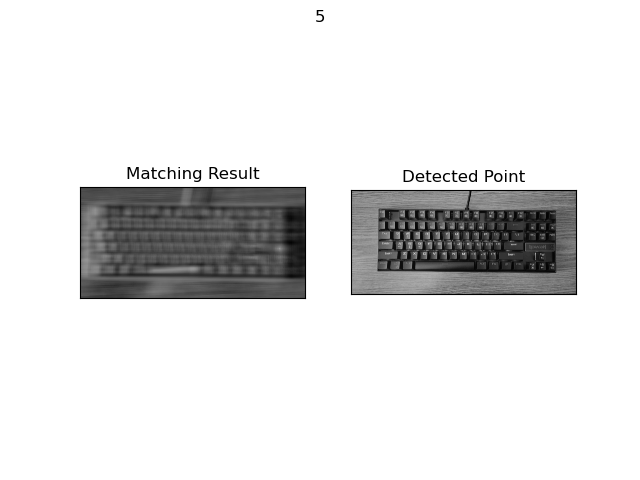
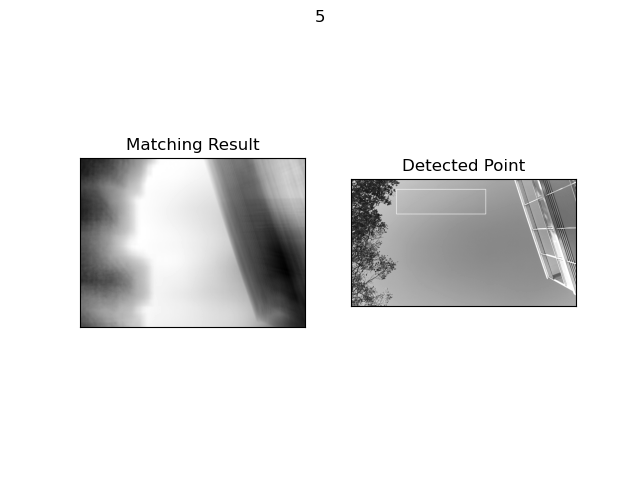
added camera functionality

Changed region(s): [[0.125, 0.2812, 0.5, 0.6875], [0.5312, 0.3125, 0.9062, 0.6562]]

diff --git a/src/keyboard_typing/keyboard_typing/autonomous_typing.py b/src/keyboard_typing/keyboard_typing/autonomous_typing.py
@@ -20,76 +20,75 @@ class AutonomousTyping(Node):
         super().__init__("autonomous_typing")
 
         #subscribes to IMAGE_TOPIC
-        self.create_subscription(Image, IMAGE_TOPIC, self.image_callback, QOS)
+        #self.create_subscription(Image, IMAGE_TOPIC, self.image_callback, QOS)
+        self.create_subscription(Image, "/camera_node/depth/image_raw", self.depth_callback, 10)
+        self.create_subscription(Image, "/camera_node/rgb/image_raw", self.rgb_callback, 10)
         #publishes PoseStamped message??
-        self.publisher = self.create_publisher(PoseStamped, "autonomous_typing", QOS)
+        self.publisher = self.create_publisher(PoseStamped, "autonomous_typing/pose", 10)
+
+        self.bridge = CvBridge()
 
         #creates an instance of aruco alignment
-        self.aruco_detector = ArucoAlignment()
-
+        self.aruco_detector = ArucoAlignment(bridge=self.bridge)
 
         #allows for you to have access to template image
         package_share_dir = get_package_share_directory("keyboard_typing")
-        FULL_KEYBOARD_IMAGE_PATH = os.path.join(package_share_dir, "resource", "full_keyboard_template_image.jpg")
-        TEMPLATE_IMAGE_PATH = os.path.join(package_share_dir, "resource", "template_image.jpg")
+        self.FULL_KEYBOARD_IMAGE_PATH = os.path.join(package_share_dir, "resource", "full_keyboard_template_image.jpg")
+        self.TEMPLATE_IMAGE_PATH = os.path.join(package_share_dir, "resource", "template_image.jpg")
 
         #load template image
-        self.bridge = CvBridge()
-
-
-
-
         #use imread so that is loads in grayscale already. --> might need to change if corner detection?
-        self.sift_template = cv2.imread(FULL_KEYBOARD_IMAGE_PATH, cv2.IMREAD_GRAYSCALE)
-
+        self.sift_template = cv2.imread(self.FULL_KEYBOARD_IMAGE_PATH, cv2.IMREAD_GRAYSCALE)
 
         if self.sift_template is None:
-            self.get_logger().error(f"Failed to load template image: {FULL_KEYBOARD_IMAGE_PATH}")
+            self.get_logger().error(f"Failed to load template image: {self.FULL_KEYBOARD_IMAGE_PATH}")
             exit(1)
-
-        sift_output = self.sift_detector()
-        
-        #for some reason this doesn't work
-        #template_matching_output = TemplateMatching(TEMPLATE_IMAGE_PATH, FULL_KEYBOARD_IMAGE_PATH).template_match()
-
-        #but this does
-        try:
-            template_matching_output = TemplateMatching(TEMPLATE_IMAGE_PATH, FULL_KEYBOARD_IMAGE_PATH)
-            template_matching_output.template_match()
-
-            corner_detection_output = CornerDetection(FULL_KEYBOARD_IMAGE_PATH)
-            corner_detection_output.corner_detect()
-
-        except Exception as e:
-            self.get_logger().error(f"TemplateMatching error: {e}")
 
         self.get_logger().info("AutonomousTyping running")
 
-    def image_callback(self, msg):
-        #convert ROS2 Image to OpenCV image --> convert to grayscale
-        #cv_image = self.bridge.imgmsg_to_cv2(msg, desired_encoding='bgr8')
-        #gray_image = cv2.cvtColor(cv_image, cv2.COLOR_BGR2GRAY)
+    def rgb_callback(self, msg):
+        try:
+            cv_image = self.bridge.imgmsg_to_cv2(msg, desired_encoding='bgr8')
+            #Aruco Detection
+            pose = self.aruco_detector.get_keyboard_pose(msg)
+            if pose is not None:
+                self.publisher.publish(pose)
+                self.get_logger().info(f"Published keyboard pose: {pose}")
+            
+            cv_image_gray = cv2.cvtColor(cv_image, cv2.COLOR_BGR2GRAY)
+            template_matching_output = TemplateMatching(self.TEMPLATE_IMAGE_PATH, image=cv_image_gray)
+            result = template_matching_output.template_match()
+            self.get_logger().info(f"Template Matching Done")
 
-        #call sift on the frame
-    #    sift_output = self.sift_detector(gray_image)
+            corner_detection_output = CornerDetection(image=cv_image)
+            corner_detection_output.corner_detect()
+            self.get_logger().info(f"Corner Detection Done")
 
-        #corner = self.corner_detection(gray_image)
+            keypoints = self.sift_detector(cv_image)  # Pass current frame for keypoint detection
 
-        #self.publisher_.publish(sift_output)
-        #self.get_logger().info(f'Sift output: "{sift_output}"')
-        pose = self.aruco_detector.get_keyboard_pose(msg)
-        if pose is not None:
-            self.publisher.publish(pose)
-            self.get_logger().info(f"Published keyboard pose: {pose}")
+
+        except Exception as e:
+            self.get_logger().error(f"Something broke in rgb_callback: {e}")
+        #return None
+
+    def depth_callback(self, msg):
+        try:
+            depth_image = self.bridge.imgmsg_to_cv2(msg, desired_encoding='passthrough')
+
+        except Exception as e:
+            self.get_logger().info(f"Something broke in depth_callback: {e}")
+        return None
+
 
 
     def corner_detection(self):
         return
     
-    def sift_detector(self):
+    def sift_detector(self, cv_image):
         #initialize sift detector
         sift = cv2.SIFT_create()
 
+        gray_frame = cv2.cvtColor(cv_image, cv2.COLOR_BGR2GRAY)
         #TEMPLATE:
         #find keypoints of template image (grayed out version) --> can put a mask
         template_keypoints = sift.detect(self.sift_template, None)
@@ -106,10 +105,10 @@ class AutonomousTyping(Node):
 
         #FRAME:
         #do the same
-        #frame_keypoints = sift.detect(gray_frame, None)
-        #self.get_logger().info(f"Number of Frame Keypoints: {len(frame_keypoints)}")
-        #frame_image_keypoints = cv2.drawKeypoints(gray_frame, frame_keypoints, None)
-        #cv2.imwrite('sift_frame_image_keypoints.jpg', frame_image_keypoints)
+        frame_keypoints = sift.detect(gray_frame, None)
+        self.get_logger().info(f"Number of Frame Keypoints: {len(frame_keypoints)}")
+        frame_image_keypoints = cv2.drawKeypoints(gray_frame, frame_keypoints, None)
+        cv2.imwrite('sift_frame_image_keypoints.jpg', frame_image_keypoints)
         
         #show image
         #cv2.imshow('SIFT Keypoints', frame_image_keypoints)

diff --git a/src/keyboard_typing/keyboard_typing/aruco_alignment.py b/src/keyboard_typing/keyboard_typing/aruco_alignment.py
@@ -17,11 +17,13 @@ POSSIBLE_DICTS = [
 ]
 
 class ArucoAlignment():
-    def __init__(self):
+    def __init__(self, bridge):
         #super().__init__('aruco_alignment')
         #self.bridge = CvBridge()
         #self.subscriber = self.create_subscription(Image, IMAGE_TOPIC, self.image_callback, QOS)
         #self.publisher = self.create_publisher(PoseStamped, 'autonomous_typing', QOS)
+
+        self.bridge = bridge
 
         #self.aruco_dict = aruco.getPredefinedDictionary(aruco.DICT_4X4_50)
         self.parameters = aruco.DetectorParameters()
@@ -54,7 +56,7 @@ class ArucoAlignment():
         corners, ids, _ = self.detect_aruco_dictionary(gray_image)
 
         if ids is None or len(ids) < 4: #do we need exactly 4, or can we do with 3?
-            self.get_logger().info("No aruco tags detected.")
+            print("No aruco tags detected.")
             return
         
         '''

diff --git a/src/keyboard_typing/keyboard_typing/template_matching.py b/src/keyboard_typing/keyboard_typing/template_matching.py
@@ -9,12 +9,16 @@ from matplotlib import pyplot as plt
 
 
 class TemplateMatching():
-    def __init__(self, template_path, image_path):
+    def __init__(self, template_path, image_path=None, image=None):
         print("Hi")
         #load template image
         #use imread so that is loads in grayscale already. --> might need to change if corner detection?
         self.template = cv2.imread(template_path, cv2.IMREAD_GRAYSCALE)
-        self.full_keyboard = cv2.imread(image_path, cv2.IMREAD_GRAYSCALE)
+        if image_path is not None:
+            self.full_keyboard = cv2.imread(image_path, cv2.IMREAD_GRAYSCALE)
+            #self.full_keyboard_copy = self.full_keyboard.copy()
+        elif image is not None:
+            self.full_keyboard = image
         self.full_keyboard_copy = self.full_keyboard.copy()
 
         if self.template is None:

diff --git a/src/keyboard_typing/keyboard_typing/corner_detection.py b/src/keyboard_typing/keyboard_typing/corner_detection.py
@@ -8,10 +8,13 @@ import matplotlib.pyplot as plt
 
 
 class CornerDetection():
-    def __init__(self, full_keyboard_template_path):
+    def __init__(self, image=None, full_keyboard_template_path=None):
         #load template image
-        self.corner_detection_template = cv2.imread(full_keyboard_template_path, cv2.IMREAD_COLOR)
-
+        if image is not None:
+            self.corner_detection_template = image
+        elif full_keyboard_template_path is not None:
+            self.corner_detection_template = cv2.imread(full_keyboard_template_path, cv2.IMREAD_COLOR)
+ 
         if self.corner_detection_template is None:
             print(f"Failed to load template image: {full_keyboard_template_path}")
             exit(1)
